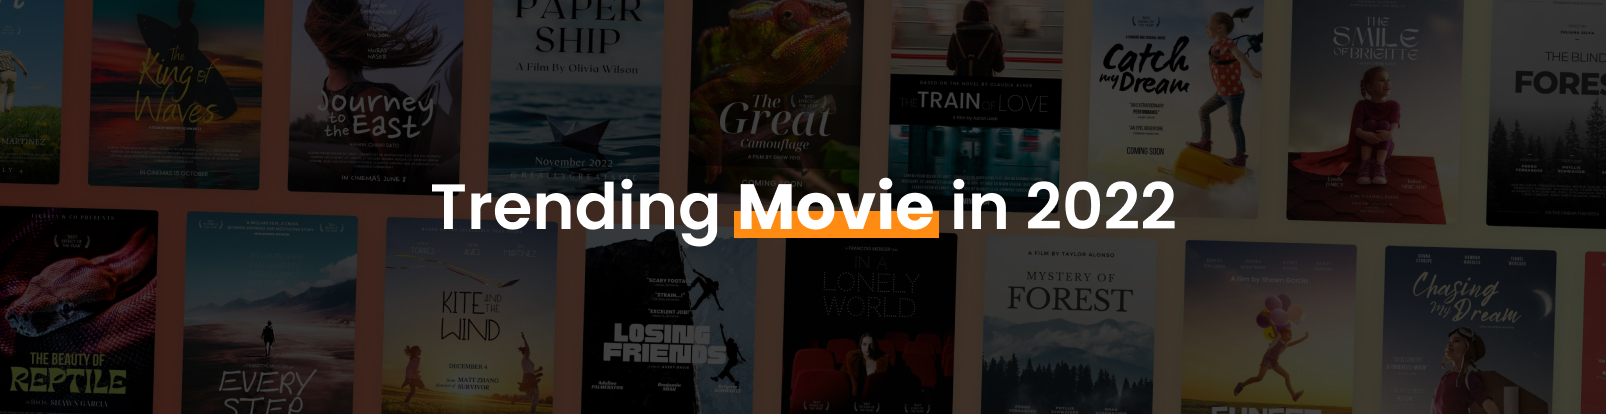
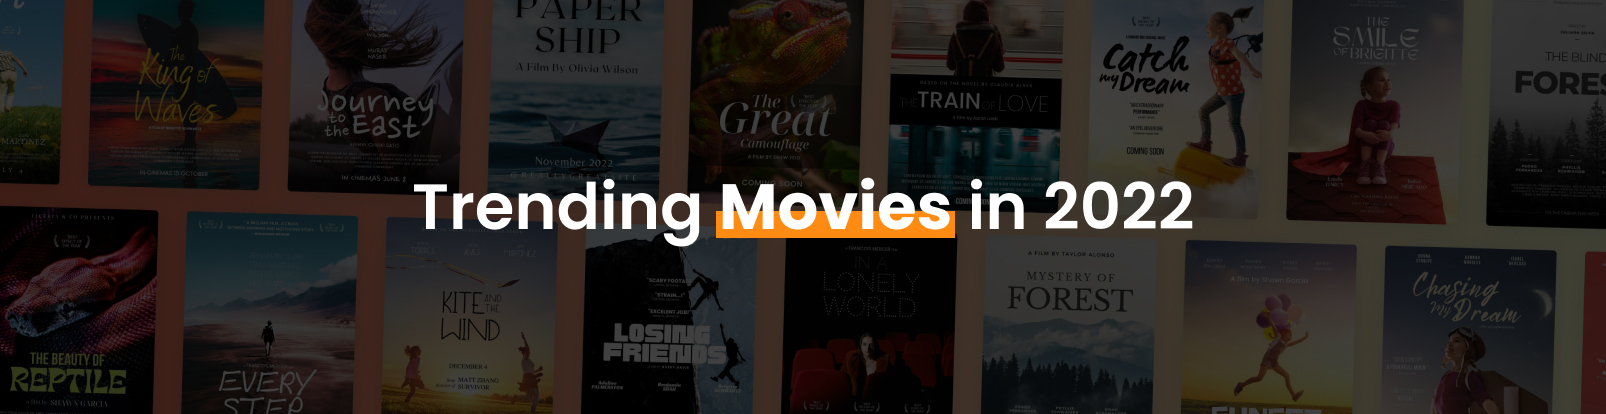
Update content

Changed region(s): [[0.2491, 0.4348, 0.7472, 0.6087]]

diff --git a/index.html b/index.html
@@ -254,7 +254,7 @@
       style="display: block"
     >
       <center>
-        <h1>Welcome to Trending Movie</h1>
+        <h1>Welcome to Trending Movies</h1>
       </center>
     </div>
 
